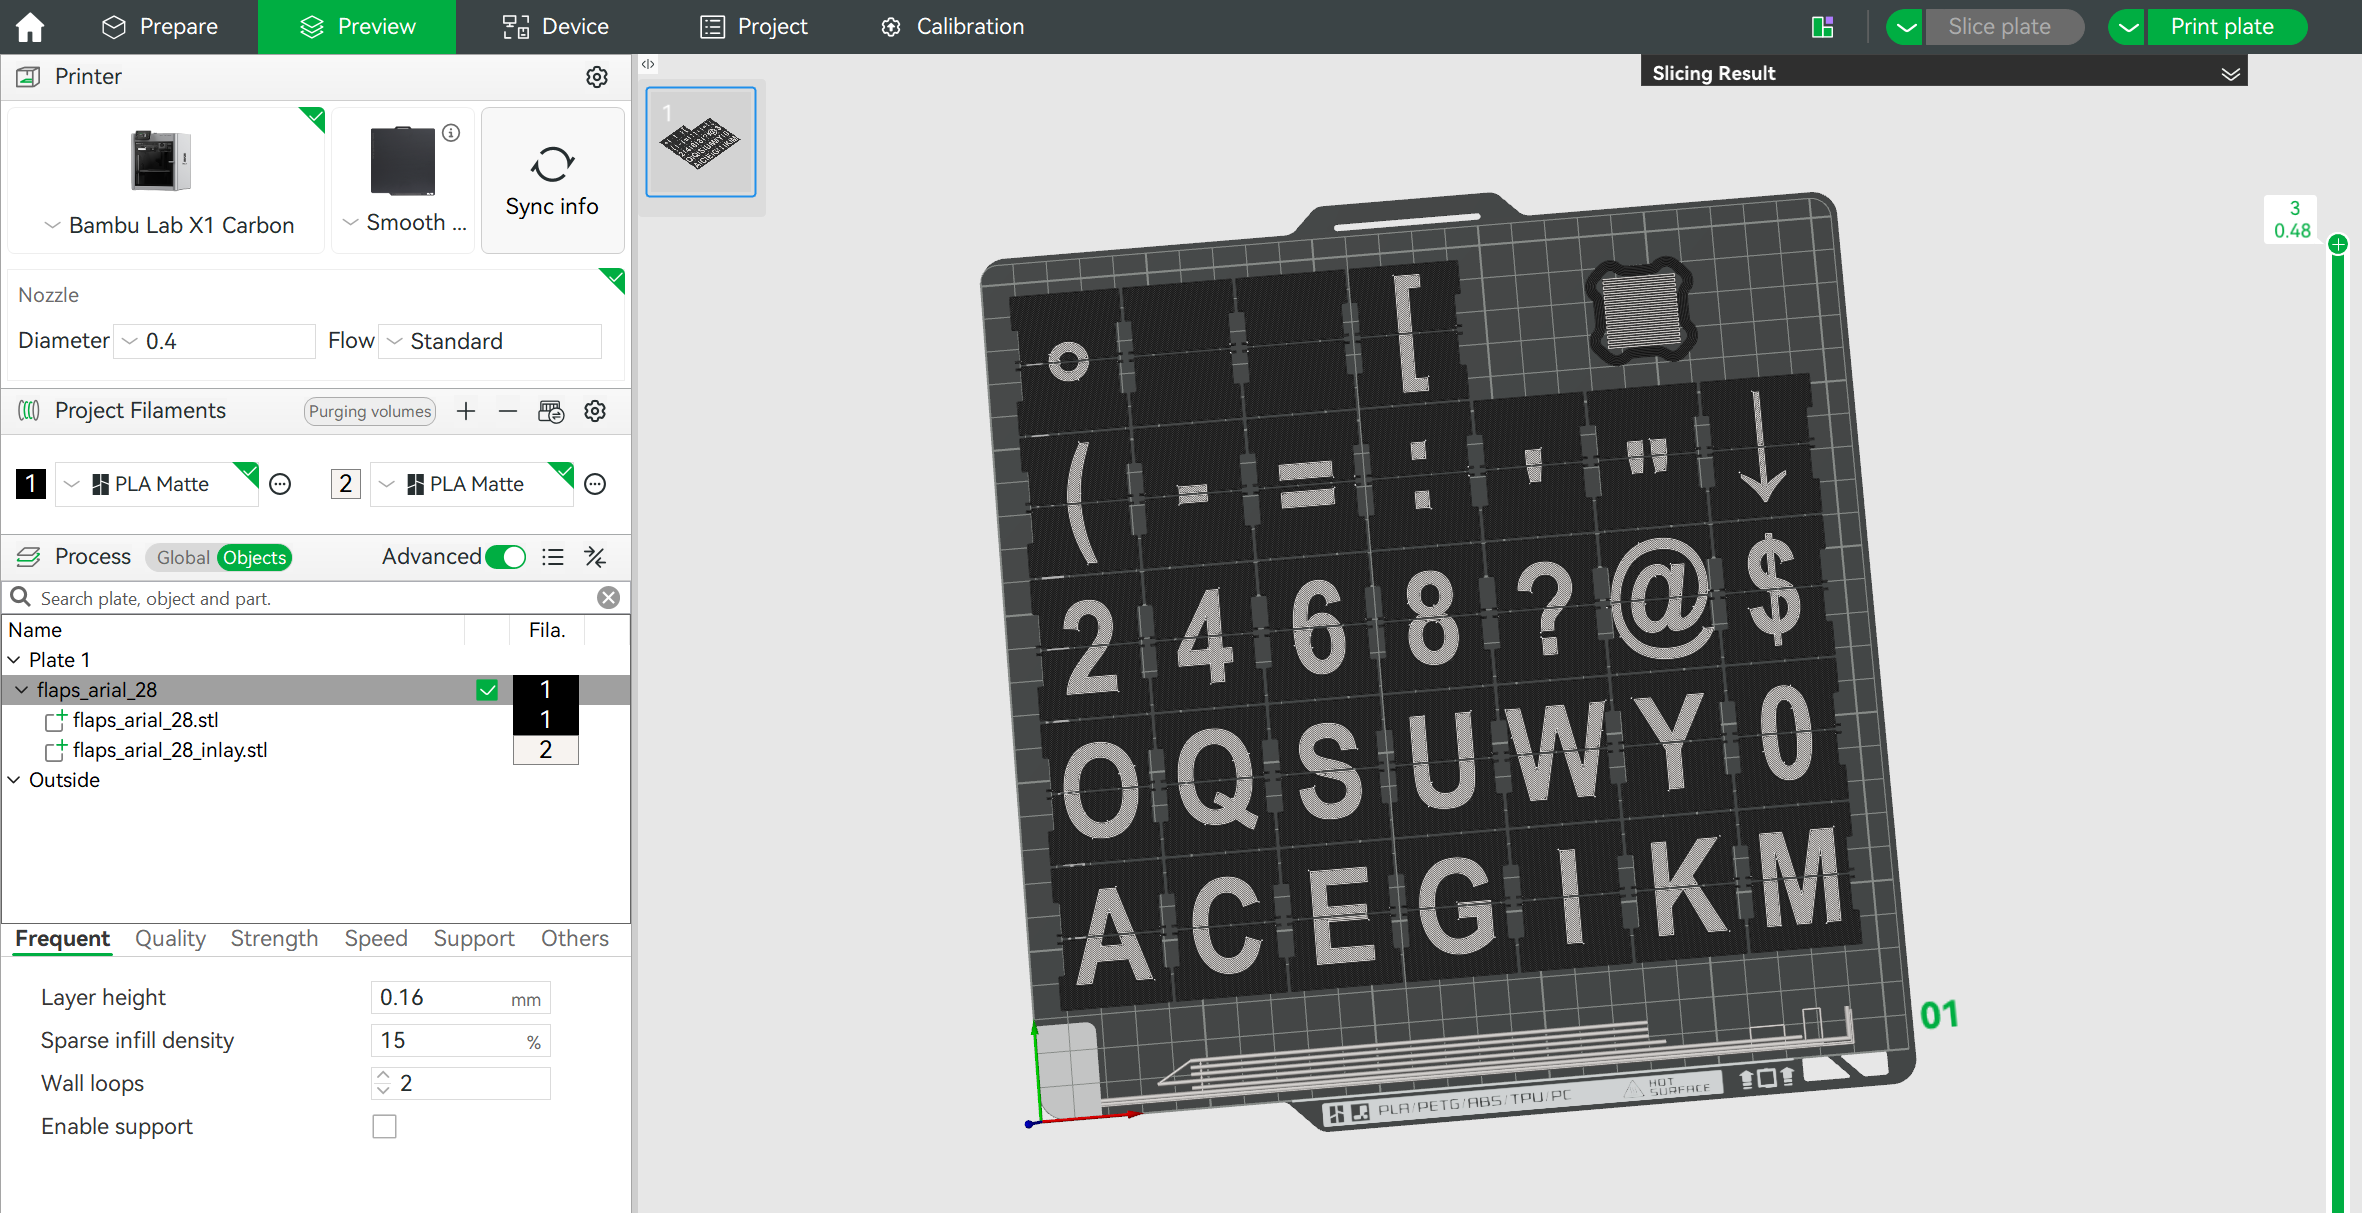
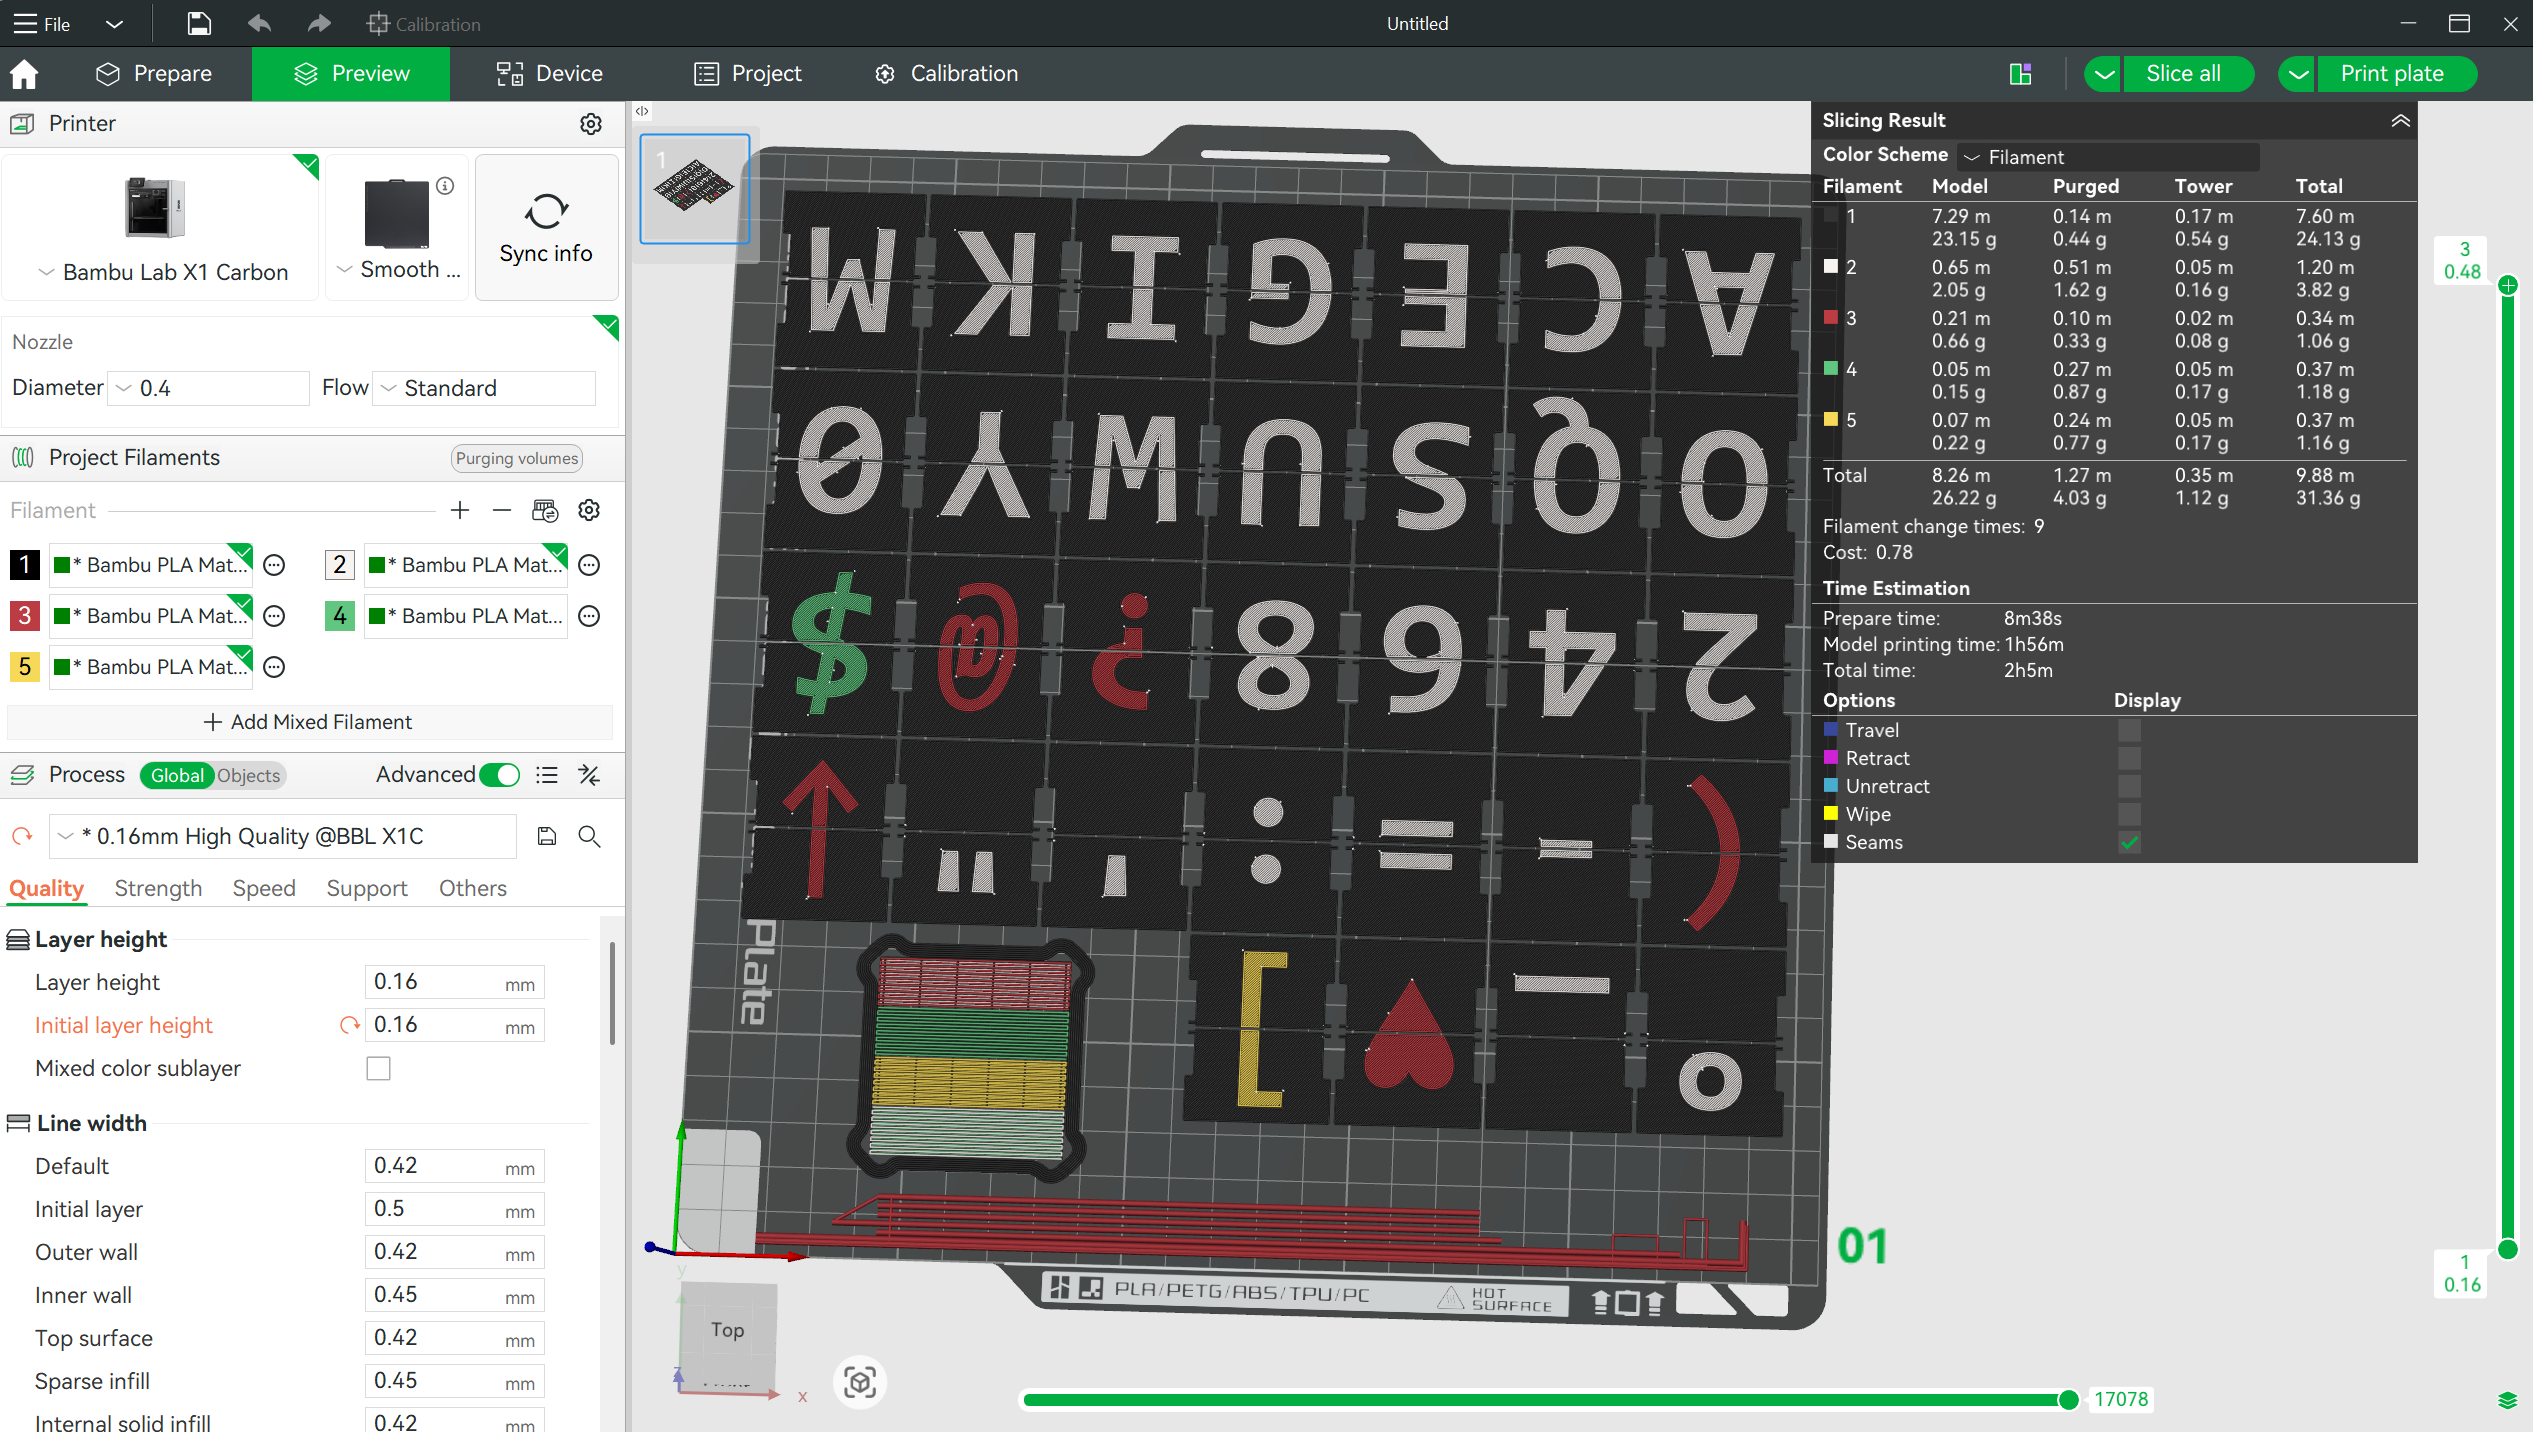
Merge pull request #17 from AnykeyNL/main
Added multi layer color support

Pull request: Added multi layer color support
Added support for multiple colors, per character selectable. 
Also added preview mode and per character font selection

diff --git a/flaps-generator/README.md b/flaps-generator/README.md
@@ -8,29 +8,35 @@
 
 The script builds a grid of split-flap blanks matching the outline in `flap.dxf`. For each flap it uses **three adjacent characters** from your sequence (previous / visible / next) so the physical flap matches how letters wrap on a drum.
 
+<img src=examples/openscad_preview_example.png width=300>
+
 You control:
 
-- **`font`** — font family and style (OpenSCAD font string, e.g. `Consolas:style=Regular`)
+- **`fonts`** — list of OpenSCAD font strings (e.g. `Consolas:style=Bold`). Any style your system has installed works the same way as a single `text()` `font=` argument.
+- **`charFont`** — **64 integers**, one per character index in **`chars`**. Each value picks which entry in **`fonts`** to use for that glyph (e.g. `0` → first font, `1` → second).
 - **`fontsize`** — base letter height passed to OpenSCAD `text()` on each flap face
 - **`chars`** — exactly **64 characters** in order; index `0…63` maps to the printed sheet (the loops stop before character index 64)
-- **`charSizeOffset`** — Per character adjustment of the size. For example '@' can be make smaller.
-- **`charYposOffset`** — Allows X position adjustment per character. The default is to align in the center. But characters like `'` need to be on the top
+- **`colorLayer`** — **64 integers**, one per character. Each value is an index into **`colors`**. It selects the **filament / inlay export pass** for that character: letter geometry for a given layer is emitted only when you call `MakeFlaps(<that index>)`.
+- **`colors`** — names (or `#hex` strings) used for **preview** coloring in OpenSCAD. Every **`colorLayer`** value must be a valid index into this list (`0` for the first color, through the last entry).
+- **`charSizeOffset`** — per-character adjustment added to **`fontsize`** (e.g. make `@` slightly smaller).
+- **`charYposOffset`** — per-character **vertical** placement on the visible face (`text()` default is centered; marks like `'` may need nudging).
+- **`layers`** / **`layerheight`** — thickness of the flap stack and each letter slice (matches the extrusion height used for the outline and glyphs).
 
-At the top of `flaps.scad`, `MakeFlaps(1)` produces the flap bodies with letter cutouts; `MakeFlaps(2)` produces only the thin letter inlays for multi-material printing.
+At the top of `flaps.scad`, **`MakeFlaps(99)`** produces the flap bodies with letter cutouts. For multi-color inlays, call **`MakeFlaps(0)`**, **`MakeFlaps(1)`**, … once per distinct **value** you use in **`colorLayer`** (each call exports only glyphs assigned to that layer). **`PreviewFlaps()`** draws the full grid for on-screen preview and is not meant for STL export.
 
 ## How to use
 
-1. Set **`font`**, **`fontsize`**, **`chars`** (64 characters), and optionally **`charSizeOffset`** / **`charYposOffset`** (each 64 entries, aligned by index with **`chars`**) as needed.
-2. **Flap bodies:** Comment out `MakeFlaps(2);` and keep **`MakeFlaps(1);`** active. Run a **full render** (OpenSCAD: **F6**), then **Export → Export as STL**.
-3. **Letter inlays:** Comment out `MakeFlaps(1);` and keep **`MakeFlaps(2);`** active. Full render again (**F6**), export a second STL.
+1. Set **`fonts`**, **`charFont`**, **`fontsize`**, **`chars`**, **`colors`**, **`colorLayer`**, and optionally **`charSizeOffset`** / **`charYposOffset`** / **`layers`** / **`layerheight`**. Arrays with one entry per character (**`charFont`**, **`colorLayer`**, **`charSizeOffset`**, **`charYposOffset`**) must stay index-aligned with **`chars`**.
+2. **Flap bodies:** Activate **`MakeFlaps(99);`** and comment out any **`MakeFlaps(<layer>)`** inlay calls (and **`PreviewFlaps()`** if you want a clean export). Run a **full render** (OpenSCAD: **F6**), then **Export → Export as STL**.
+3. **Letter inlays (one STL per color layer):** For each layer index `L` that appears in **`colorLayer`**, set **`MakeFlaps(L);`** (and comment out the other passes). Full render (**F6**), export STL. Repeat for every `L` you use (e.g. `0…3` if you use four **`colors`** slots).
 
    *(Preview-only **F5** is not enough for a clean STL export; always use full render for exports.)*
 
-4. **Bambu Studio:** Import **both** STL files. When prompted, choose **import as a single object** (so both parts stay aligned as one assembly).
-5. In the object/plate list, assign **Filament 1** and **Filament 2** to the two bodies so the slicer maps each STL to the correct filament.
+4. **Bambu Studio (or any multi-material slicer):** Import the body STL plus **each** inlay STL. When prompted, choose **import as a single object** so all parts stay aligned.
+5. Assign **Filament 1**, **Filament 2**, … so each imported inlay mesh maps to the filament that matches **`colors`** / your **`colorLayer`** plan (same count as the distinct layer indices you exported).
 
 Example in Bambu Studio (Preview): one grouped object with body + inlay STLs, each mapped to a filament slot.
 
-![Bambu Studio: grouped flap body and inlay STLs with Filament 1 / Filament 2](examples/bambu_screenshot_example.png)
+![Bambu Studio: grouped flap body and inlay STLs with filament slots](examples/bambu_screenshot_example.png)
 
 License for this generator: see comments in `flaps.scad` (Creative Commons BY-NC-SA 4.0).